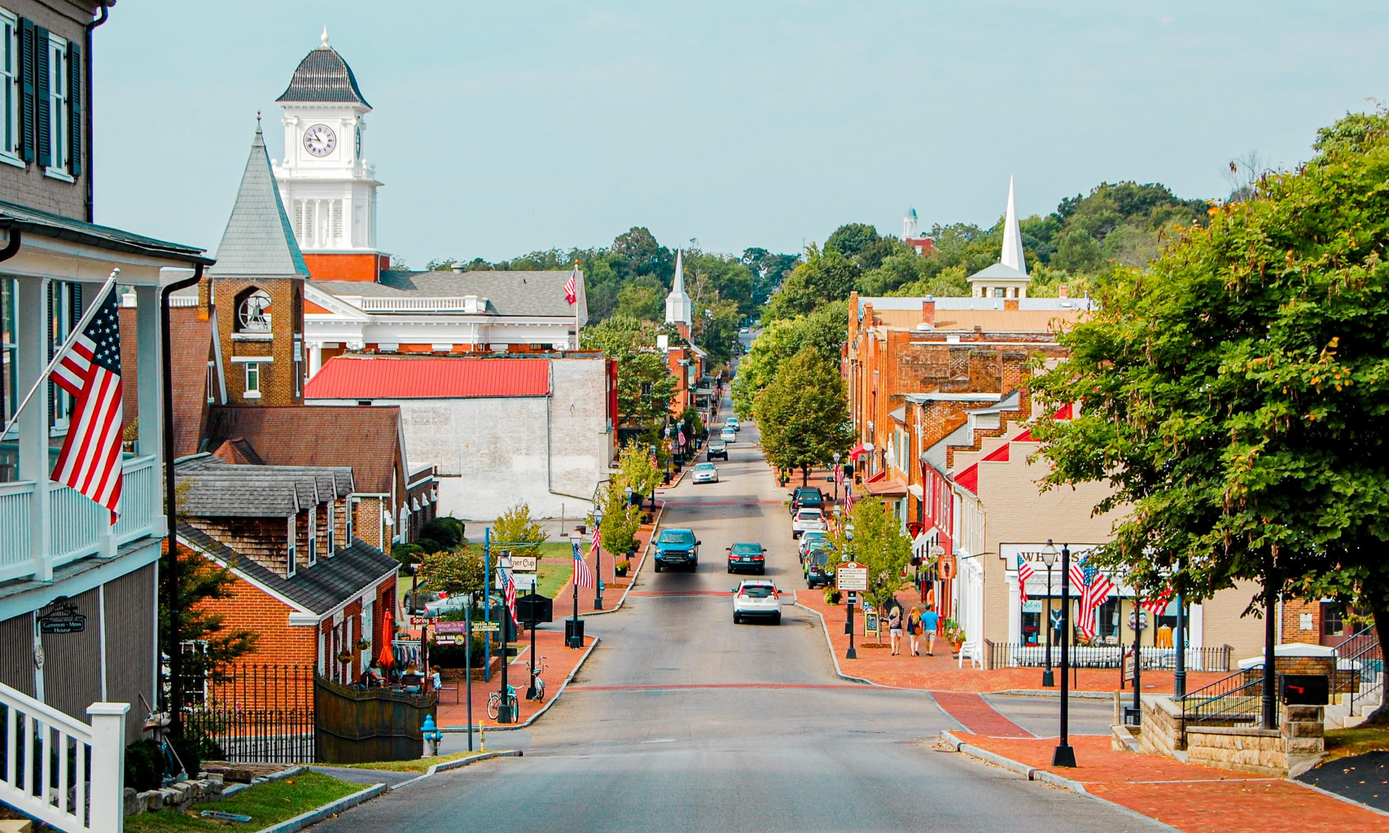
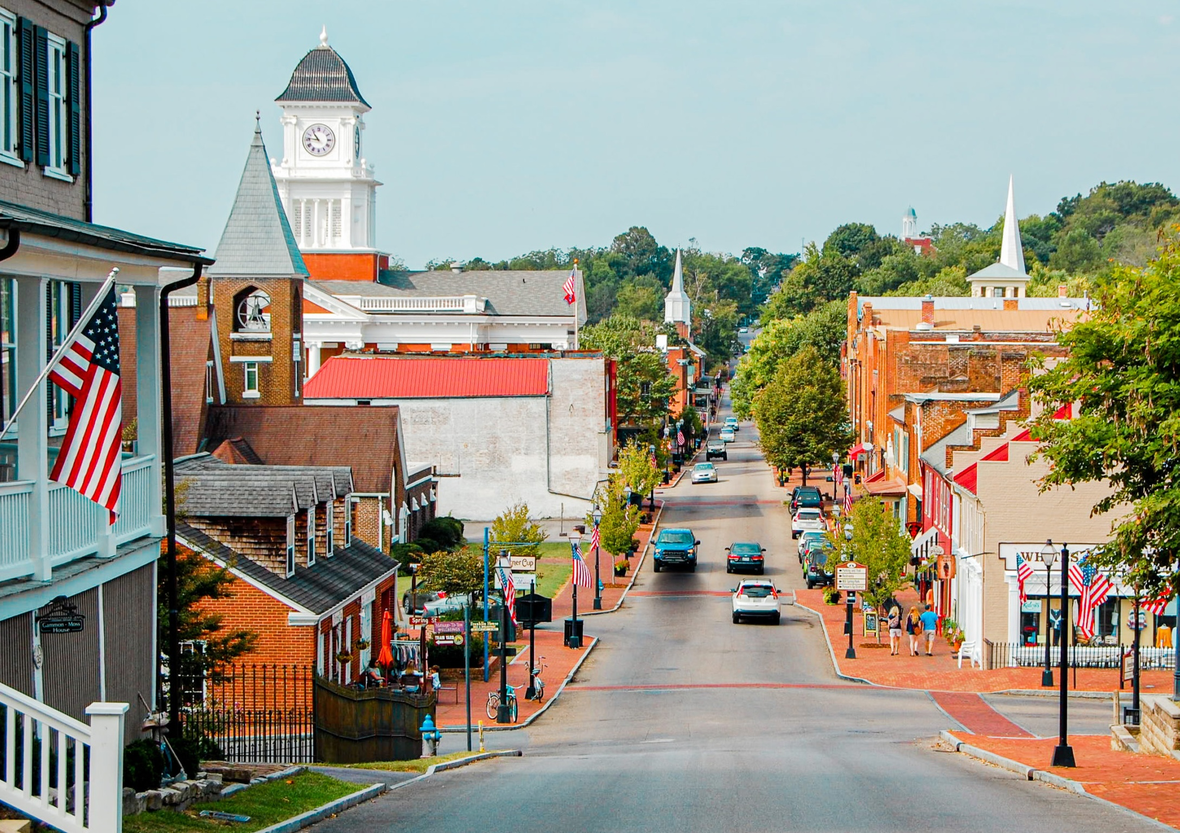
Updated image and css on slogan section

diff --git a/styles/main.css b/styles/main.css
@@ -445,7 +445,7 @@ nav {
 /* Slogan Section */
 
 .slogan-section {
-  background-image: linear-gradient(rgba(0, 0, 0, 0.6), rgba(0, 0, 0, 0.8)),
+  background-image: linear-gradient(rgba(0, 0, 0, 0.5), rgba(0, 0, 0, 0.7)),
     url(../images/downtown-jonesborough.jpg);
   background-repeat: no-repeat;
   background-size: cover;
